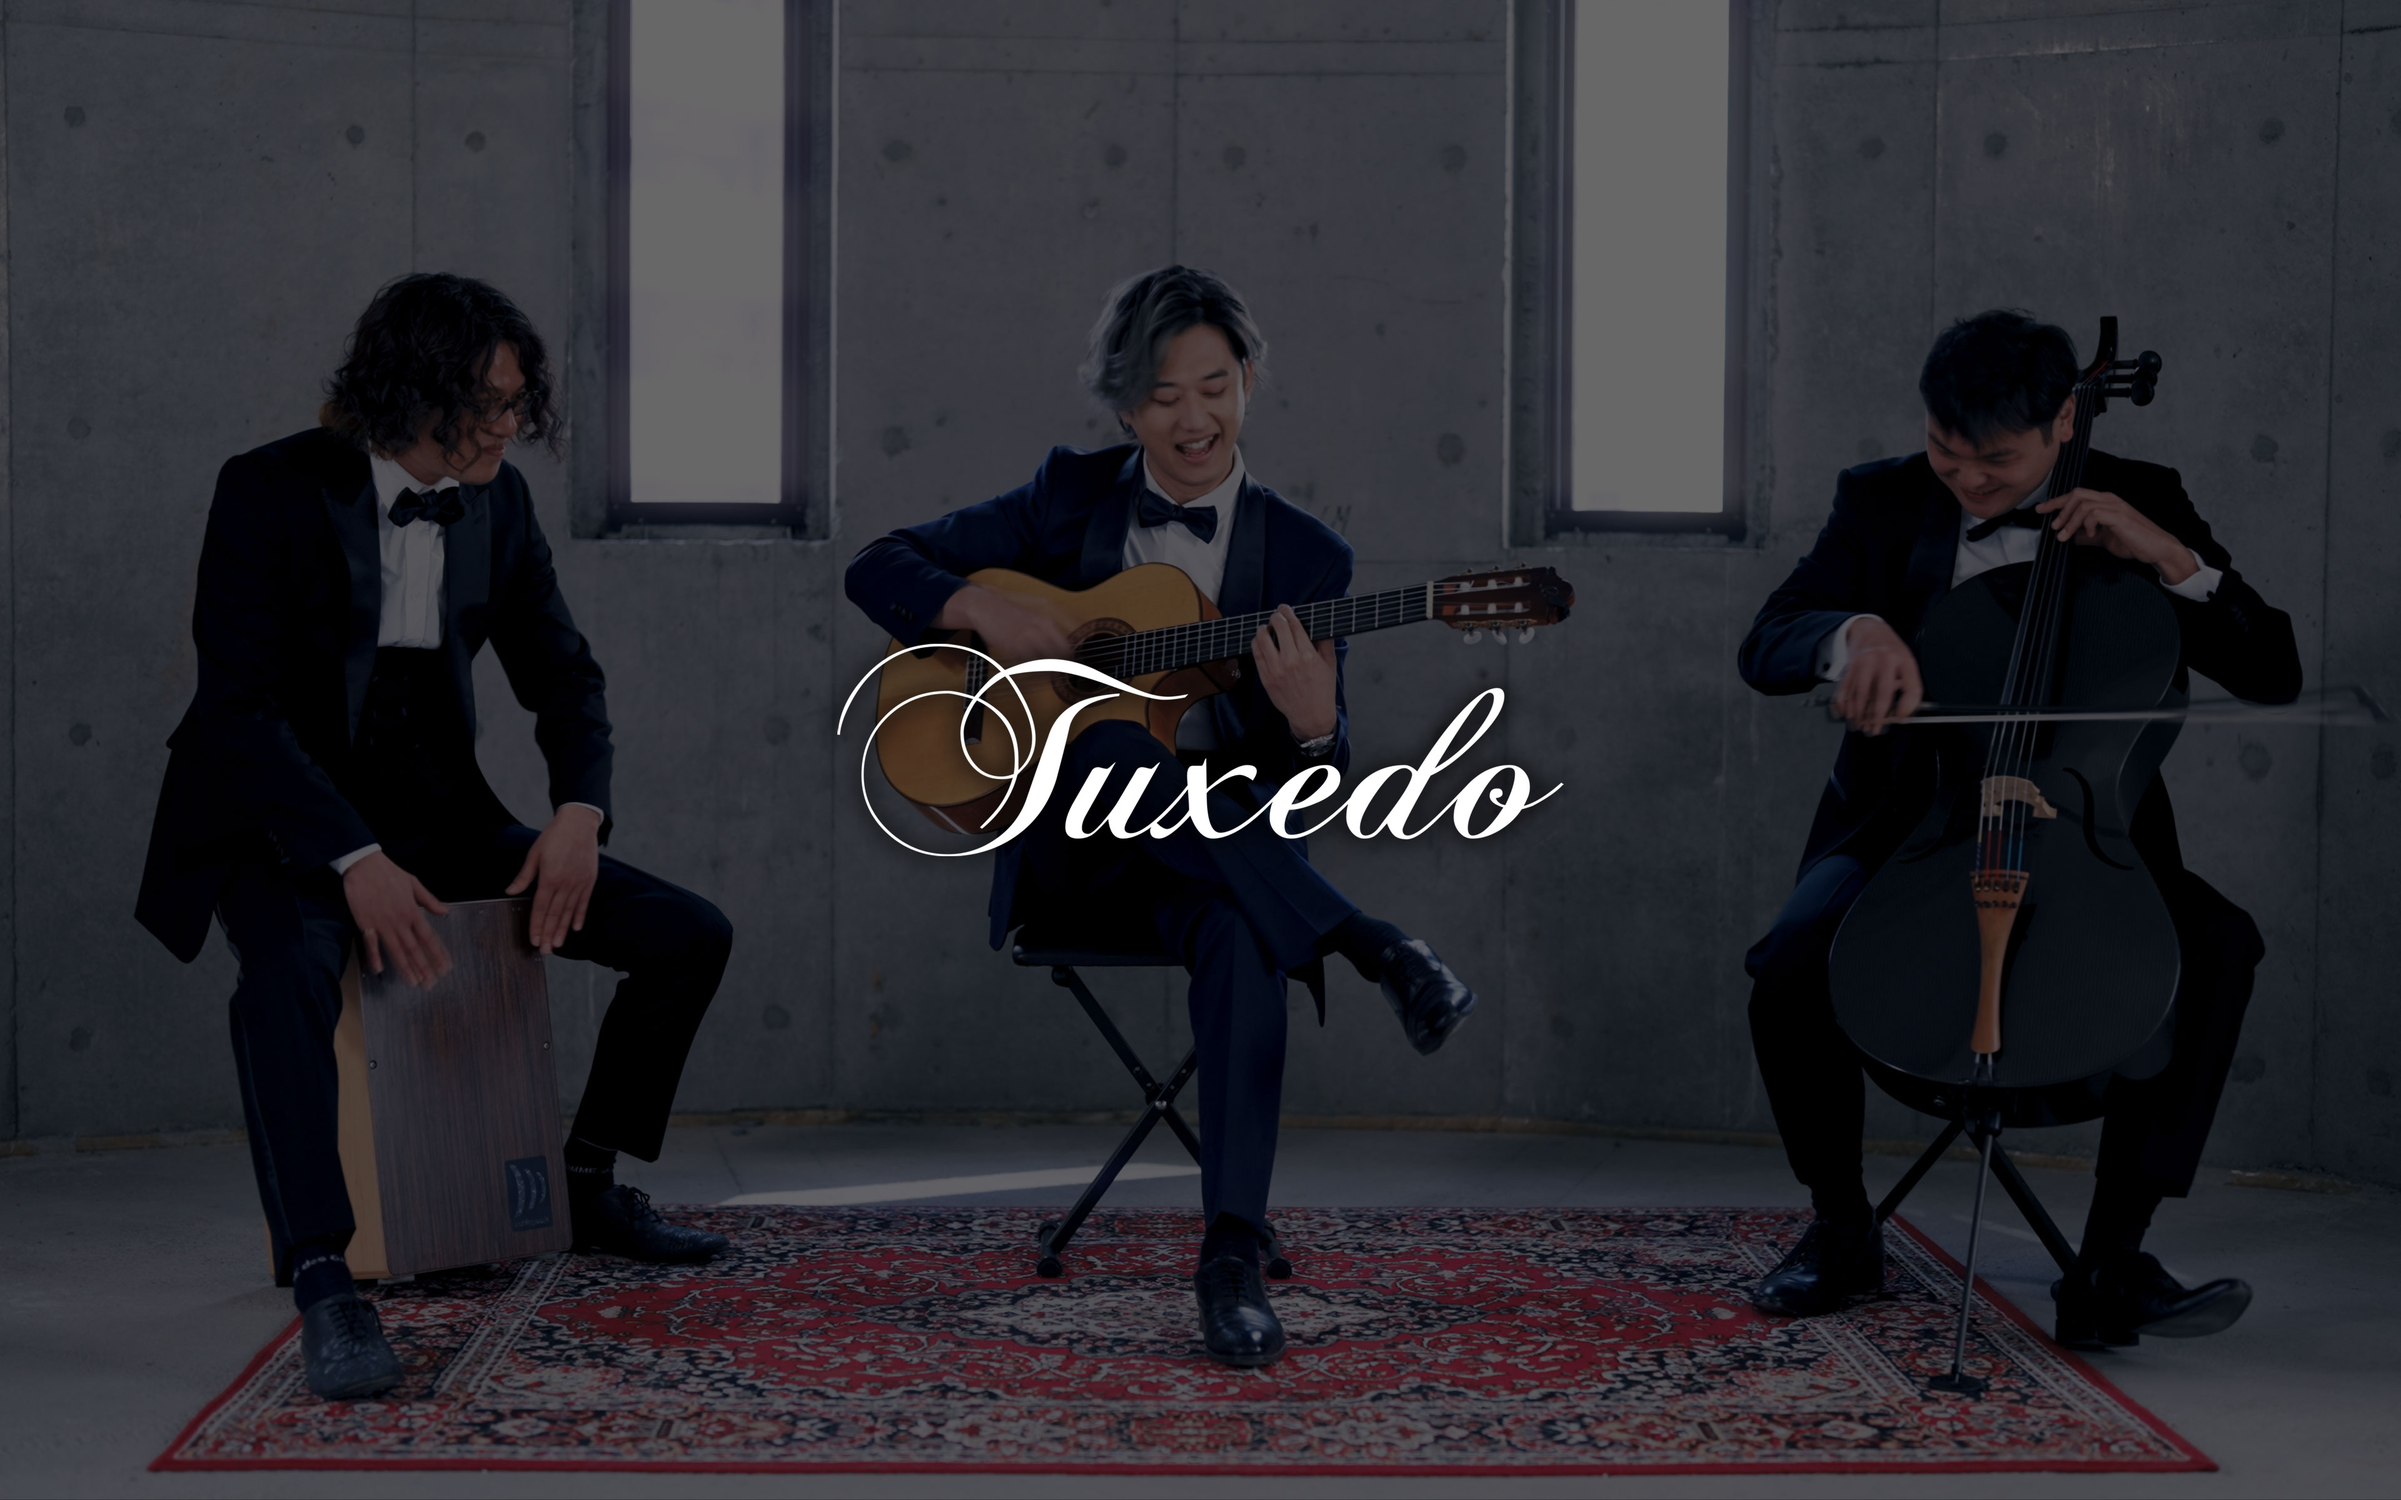
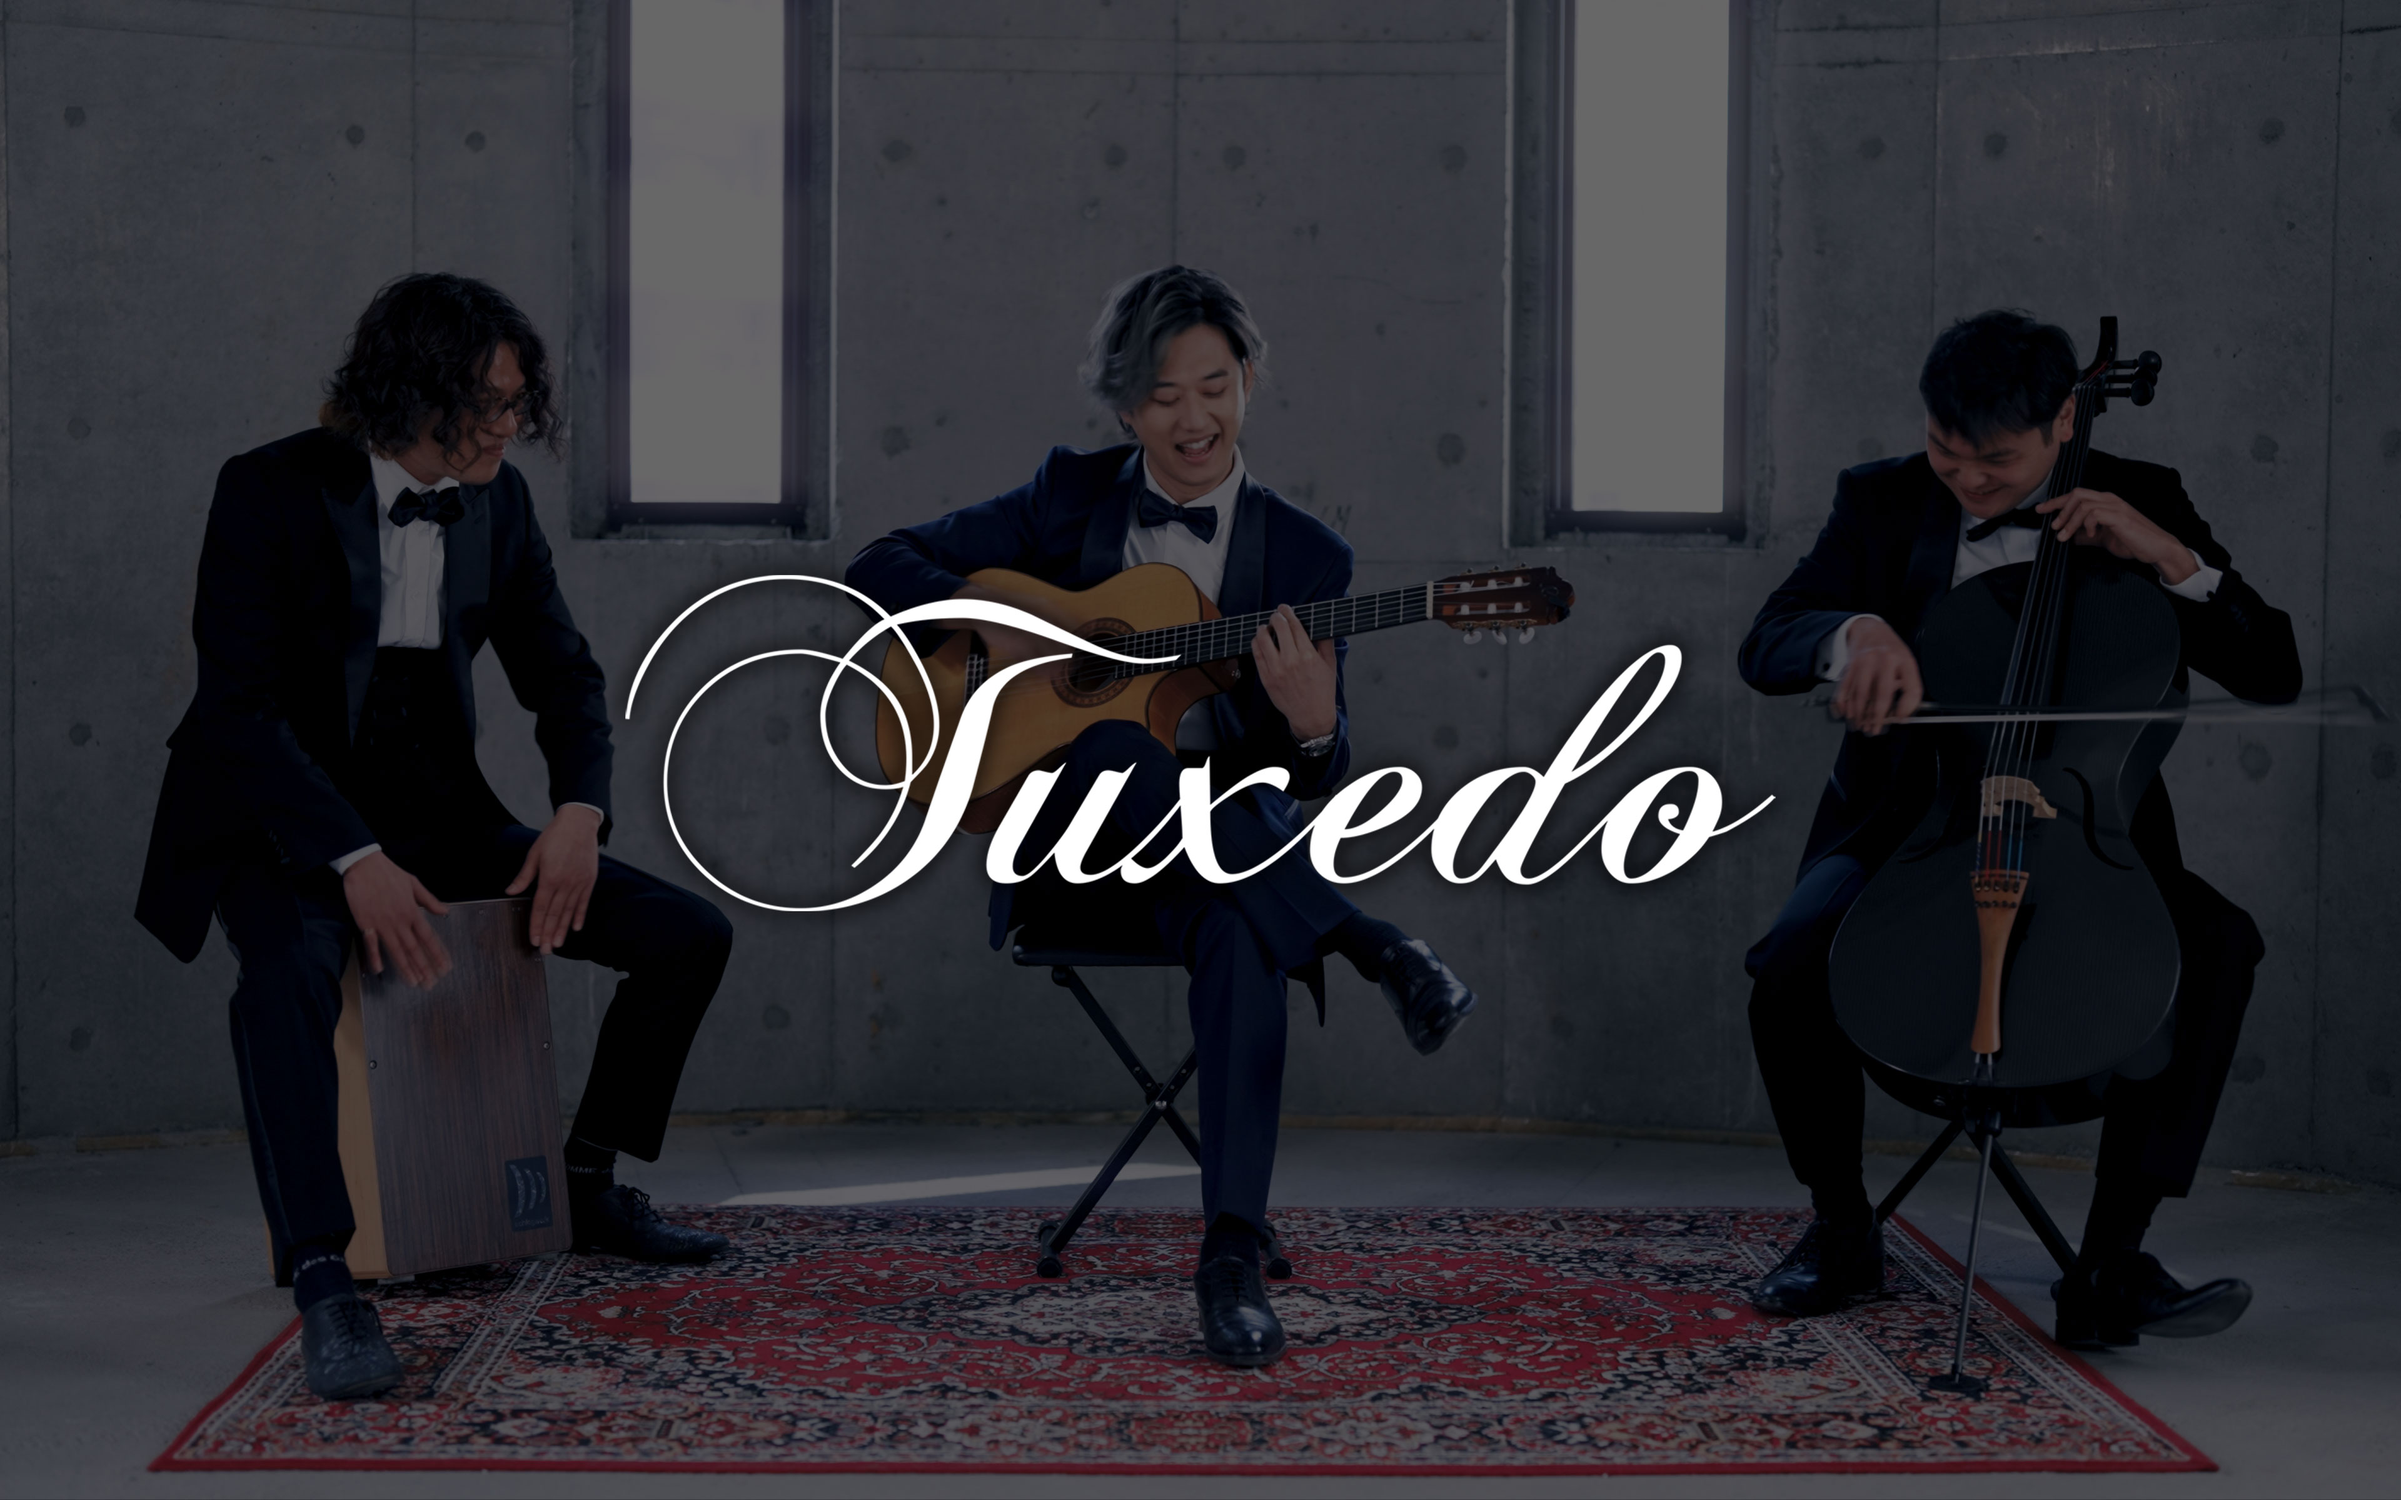
背景色・がぞうのへんこう

Changed region(s): [[0.2812, 0.375, 0.7188, 0.625], [0.25, 0.4375, 0.3125, 0.4688], [0.2812, 0.5625, 0.3125, 0.5938]]

diff --git a/public/css/styles.dev.css b/public/css/styles.dev.css
@@ -1354,7 +1354,8 @@ body.color-scheme-retro {
   color: #ffffff;
 }
 body.color-scheme-neue {
-  background-color: #373e4b;
+  /*background-color: #373e4b;*/
+  background-color: #000000;
 }
 .color-scheme-neue hr {
   border-color: rgba(255, 255, 255, 0.3);

diff --git a/resources/views/landing.blade.php b/resources/views/landing.blade.php
@@ -45,7 +45,7 @@
 				<!--<h1>Coming soon!</h1> -->
 				
 				<!-- Sub header -->
-				<img src="{{ asset('images/tuxedo_logo.png') }}" class="img-responsive mt-5" alt="Tuxedo logo" width="300px" style="margin-top:50px">
+				<img src="{{ asset('images/tuxedo_logo.png') }}" class="img-responsive mt-5" alt="Tuxedo logo" width="250px" style="margin-top:50px">
 				<p class="lead" style="margin-top:10px">KENTA MORIMOTO TRIO<br>presents</p>
 				
 				<!-- Countdown -->
